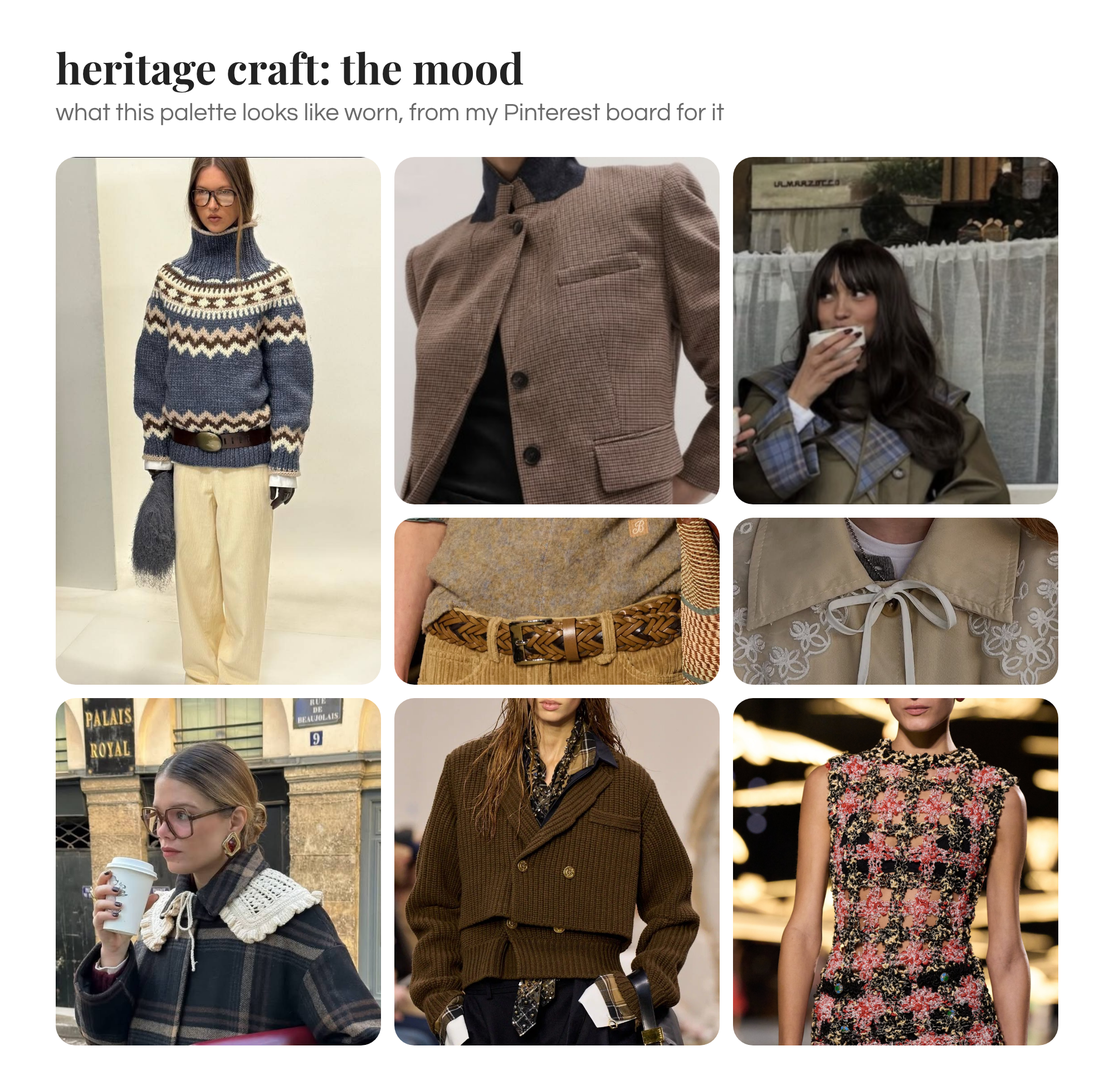
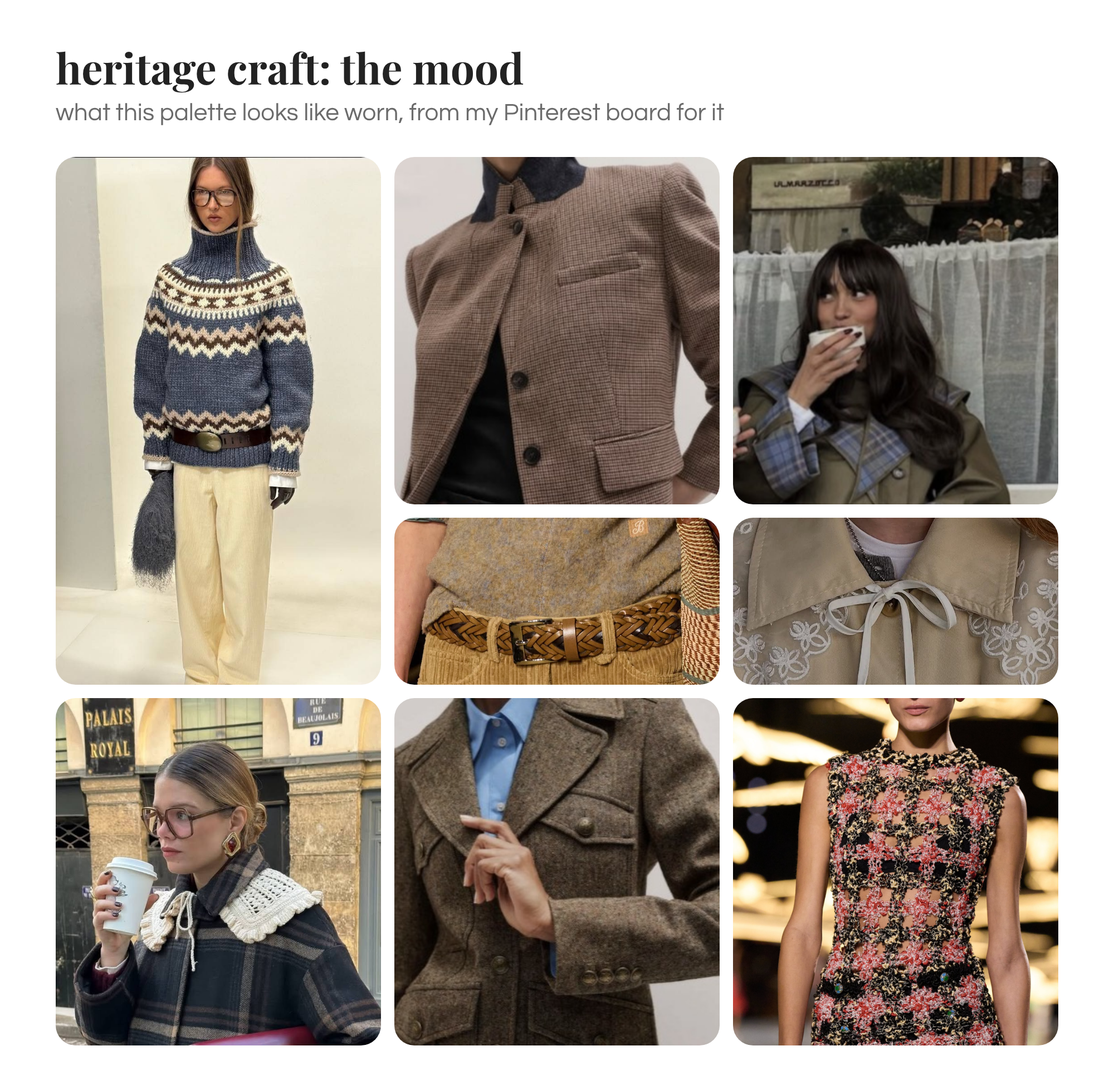
FW27 Heritage Craft collage: tweed jacket added
Claude-Session: https://claude.ai/code/session_01N7aeZaURyexD9YLQTk163X

Changed region(s): [[0.341, 0.6231, 0.651, 0.9658]]

diff --git a/drafts/fw27-forecast-charts/collages/19-mood-heritage-craft.html b/drafts/fw27-forecast-charts/collages/19-mood-heritage-craft.html
@@ -1,1 +1,1 @@
-<!doctype html><html><head><meta charset="utf-8"><link href="https://fonts.googleapis.com/css2?family=Playfair+Display:wght@700&family=Questrial&display=swap" rel="stylesheet"><style>body{margin:0;background:#fff}#card{width:1000px;background:#fff;box-sizing:border-box;padding:40px 50px 40px;font-family:'Century Gothic','Questrial',sans-serif;color:#222}h1{font-family:'Playfair Display',Georgia,serif;font-weight:700;font-size:38px;margin:0 0 8px;line-height:1.1}.sub{font-size:22px;color:#6B6B6B;margin:0 0 28px}.grid{display:grid;grid-template-columns:repeat(6,1fr);grid-template-rows:repeat(5,150px);gap:12px}.c{border-radius:18px;overflow:hidden} .c img{width:100%;height:100%;object-fit:cover;display:block}</style></head><body><div id="card"><h1>heritage craft: the mood</h1><p class="sub">what this palette looks like worn, from my Pinterest board for it</p><div class="grid"><div class="c" style="grid-area:1/1/4/3"><img src="../pinterest/heritage-craft/pin10.jpg" style="object-position:top"></div><div class="c" style="grid-area:1/3/3/5"><img src="../pinterest/heritage-craft/carmen-01.jpg" style="object-position:top"></div><div class="c" style="grid-area:1/5/3/7"><img src="../pinterest/heritage-craft/carmen-02.jpg" style="object-position:top"></div><div class="c" style="grid-area:3/3/4/5"><img src="../pinterest/heritage-craft/pin04.jpg" style="object-position:center 35%"></div><div class="c" style="grid-area:3/5/4/7"><img src="../pinterest/heritage-craft/pin12.jpg" style="object-position:center 35%"></div><div class="c" style="grid-area:4/1/6/3"><img src="../pinterest/heritage-craft/pin09.jpg" style="object-position:top"></div><div class="c" style="grid-area:4/3/6/5"><img src="../pinterest/heritage-craft/pin11.jpg" style="object-position:top"></div><div class="c" style="grid-area:4/5/6/7"><img src="../pinterest/heritage-craft/pin20.jpg" style="object-position:top"></div></div></div></body></html>
+<!doctype html><html><head><meta charset="utf-8"><link href="https://fonts.googleapis.com/css2?family=Playfair+Display:wght@700&family=Questrial&display=swap" rel="stylesheet"><style>body{margin:0;background:#fff}#card{width:1000px;background:#fff;box-sizing:border-box;padding:40px 50px 40px;font-family:'Century Gothic','Questrial',sans-serif;color:#222}h1{font-family:'Playfair Display',Georgia,serif;font-weight:700;font-size:38px;margin:0 0 8px;line-height:1.1}.sub{font-size:22px;color:#6B6B6B;margin:0 0 28px}.grid{display:grid;grid-template-columns:repeat(6,1fr);grid-template-rows:repeat(5,150px);gap:12px}.c{border-radius:18px;overflow:hidden} .c img{width:100%;height:100%;object-fit:cover;display:block}</style></head><body><div id="card"><h1>heritage craft: the mood</h1><p class="sub">what this palette looks like worn, from my Pinterest board for it</p><div class="grid"><div class="c" style="grid-area:1/1/4/3"><img src="../pinterest/heritage-craft/pin10.jpg" style="object-position:top"></div><div class="c" style="grid-area:1/3/3/5"><img src="../pinterest/heritage-craft/carmen-01.jpg" style="object-position:top"></div><div class="c" style="grid-area:1/5/3/7"><img src="../pinterest/heritage-craft/carmen-02.jpg" style="object-position:top"></div><div class="c" style="grid-area:3/3/4/5"><img src="../pinterest/heritage-craft/pin04.jpg" style="object-position:center 35%"></div><div class="c" style="grid-area:3/5/4/7"><img src="../pinterest/heritage-craft/pin12.jpg" style="object-position:center 35%"></div><div class="c" style="grid-area:4/1/6/3"><img src="../pinterest/heritage-craft/pin09.jpg" style="object-position:top"></div><div class="c" style="grid-area:4/3/6/5"><img src="../pinterest/heritage-craft/carmen-03.jpg" style="object-position:top"></div><div class="c" style="grid-area:4/5/6/7"><img src="../pinterest/heritage-craft/pin20.jpg" style="object-position:top"></div></div></div></body></html>
